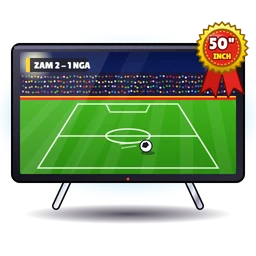
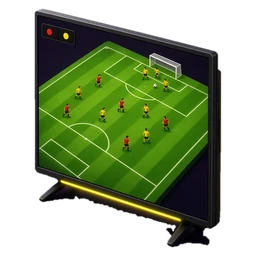
art(store): 55-inch TV prize art; TV rows switched on (all 13 prizes sell)

diff --git a/CLAUDE.md b/CLAUDE.md
@@ -55,7 +55,7 @@
 - Currency system: Coins (state key `kwacha`), prize gems Emeralds / Rubies / Diamonds (2026-10-07; old Gems + Diamonds retired), XP. Kwacha (K) = real money, only via Store redemptions
 - **Coins & Store redesign (2026-10-14, design canvas RRYkJT53TxAN94Hu36b73A)**: art in `public/ui/store/` (pack-k1..k50, BwanaBet-logo banner, chest, quilt/grain textures); texture classes `bb-*` in `components/redesign/storeKit.jsx`; shine sweep + sparkles in `components/redesign/Shine.jsx` + `app/globals.css` (off under reduced motion); `nextPackGoal`/`packArtAmount` in `lib/store/catalog.mjs`. Daily reward frame = BwanaBet yellow #FEF200 bevel with a travelling glint (also day-7 chest + TOP PRIZE frames)
 - **Daily reward POPUP (2026-10-18, `components/redesign/DailyRewardPopup.jsx`)**: opens by itself once per widget open while today's reward is unclaimed (logged in: after hydration; waits for other modals / the open story bubble); holds the same `DailyReward` card (`id="daily-reward-popup"`). CLAIM = `claimDailyReward(el, { popup: true })`: 12 K coins fly from the button into `.currency-coin-target` (which pulses per coin), a small "+N coins" float, XP stars, then the popup fades out (~450ms); no card confetti. X / Escape close it; the card stays on Home. The popup card is `DailyReward todayOnly` (only today's prize, big; no week grid). Mission cards (Home teaser + Missions tab) show the prize as a centred "EARN [coin] 50 COINS" line (`EarnPrize` in EarnView) and `missionTerms` in big display type, its first word (the action: PLAY, PLACE, DEPOSIT, MAKE, LOG IN; loyalty missions read "LOG IN ON N DAYS", any days, from 14 days up; the first two rungs (3 and 7, `IN_A_ROW` in `lib/missions/ladder.mjs`) read "LOG IN N DAYS IN A ROW" and count `loginStreak`: daily-reward days in a row ending today/yesterday, after the Lusaka day of the previous collection (`missionBase.logins.at`), a missed day resets, owner 2026-10-22; the Home mission tile shows the terms ABOVE the prize) in the platform gold via `MissionTerms` (2026-10-20); mission XP unchanged (owner decision 2026-10-18). Coin Shop (Store hero + Home panel) shows NO balance and NO next-pack meter (they confused players), only the "10,000 COINS BUYS K1.00" guide. Story bubble title = "YOUR STORY:" (no League level / Status). Missions tab: the full 17-stage "Stage milestones" list is REMOVED (owner 2026-10-18: the story stays a mystery); phones keep the "how to earn XP" box in its place (`RewardsSection`), desktop road column + World Cup path unchanged. **Level names (2026-10-18)**: each stage has ONE level name `title` (`LEVEL_NAMES` in `lib/vuma/stages.mjs`, replaces league + status), 13 owner names over 19 stages: 1 Village Football, 2 Street Hero, 3 Street Legend, 4 Amateur League, 5–6 Amateur League Hero, 7 Amateur League Legend, 8 Professional League, 9–10 Pro League Hero, 11 Pro League Legend, 12–13 International League, 14–16 International League Hero, 17–19 International League Legend. **Story stays a surprise**: the next PLACE/club is never named ahead — "XP to <next level name>" (`nextStageLabel`, "stage N" when the name repeats), profile "Next: <level name>", desktop road has no next-3 preview, World Cup teaser "Reach level 22 to play for Zambia"; level-up modal adds the level name. Village (mud) pitch has NO markings. **Side quests = 10 levels** (`hustle.levels`): Fried rat selling 0 → Car washing 500 → Chili bite trading 1.5k → Wheelbarrow pushing 3k → Tomato trading 5k → Bus conducting 7.5k → Bus driving 10k → Salaula trading 13k → Mobile money agent 16.5k → Kapenta trading 20k overflow XP, paying 20/40/60/90/120/160/200/260/330/400 coins/day. Art is TEMPORARY (`QUEST_ART` in `lib/season/hustle.mjs` reuses the 5 old hustle pictures); new art prompts in `docs/vuma/side-quest-prompts.md` (save as `public/vuma/quest-NN.jpg`)
-- **Coin Shop opens at LEVEL 10 (owner 2026-10-22, was stage 5 from 2026-10-20; ONLY the kwacha packs can be bought, every other item shows a "Coming soon" lock: `itemBuyable` = `redeem.currency === 'coins'`, `/api/purchase` refuses others with `item_locked`; a "REAL PRIZES" section in the Store tab lists the 13 prizes from `lib/store/prizes.mjs` (PRICED 2026-10-26, owner list: one `store_items` row per price option grouped by `prize_id` (e.g. Power Bank = 1,000,000 coins OR 5 emeralds), bought via the normal `/api/purchase` -> `purchase_item` path, Telegram "🎁 REAL PRIZE … arrange delivery"; LIVE 2026-10-26 (owner approved mockup artifact 98bqRrV2ZmKYsUC64JfBZE): NO "Real prizes" heading or tiers any more, the Store tab is ONE grid: the kwacha packs K1..K50 (no TOP PRIZE badge while prizes follow, no "Kwacha packs" header) then the prizes in the same pack-look card (`StorePrizeCard`: price(s) on top with OR, BUYS, the name, a button per price "Convert" / "Use coins" / "Use emeralds" two-tap, "N more emeralds" when short), cheapest first (`shopPrizes`); 12 prizes sell: football, powerbank, wifi, iphonex ("iPhone X"), scooter, galaxyultra, iphone18, car, plus (2026-10-28) cap, buckethat, tshirt, hoodie (Grok blank clothing + the owner's mascot logo `docs/store/bwanabet-mascot-logo.jpg` composited on by Claude); the TV rows stay `active = false` until its art exists; the normal shop locks still apply (level 10, `store` row); remote-config row `prizes` = `{ open, convert, testers, convertRate }`: `open` (true since 2026-10-26) shows/sells the prizes to everyone, `convert` (false) the gem conversion, testers (53) get each before it opens (and skip the level-10 lock while prizes are closed); `lib/store/prizes.mjs` `cleanPrizesConfig`/`prizesOpenFor`/`prizesTester`/`prizeOptions`; migration `2026-10-26-real-prizes.sql`, APPLIED; tests `tests/store-prizes.test.mjs`). **GEMS -> COINS (owner 2026-10-26, supersedes "gems never convert")**: the wallet sheet's gem rows get a two-tap Convert (1 gem per tap) paying `prizes.convertRate` (0.75) x the gem's coin value (1 emerald -> 150,000 coins, ruby 375,000, diamond 750,000) via `POST /api/gems/convert` -> `convert_gems()` RPC (server-held balance, atomic, logged in `gem_conversions`), gate `prizes.convert` (still OFF for players, `convertOpenFor`); converted coins CAN buy kwacha packs (owner OK, the one-pack-a-week cap still applies) (3 tiers, art `public/ui/prizes/<id>.webp`, canvas U29ENtxP8VnDX8KxBhmv1w), all locked, no prices yet)**: `STORE_UNLOCK_STAGE` / `STORE_UNLOCK_XP` (7,000) / `storeLocked` in `lib/store/catalog.mjs` (test `tests/store-lock.test.mjs`); below it the Home panel + Store tab are greyed and inert (`ShopLockWrap`) with an "OPENS AT STAGE 5 · N XP to go" plate (`ShopLockPlate`, storeKit), the nav tab is greyed with a lock (still opens the locked tab), and `POST /api/purchase` refuses with `store_locked` when `profiles.xp` < 900
+- **Coin Shop opens at LEVEL 10 (owner 2026-10-22, was stage 5 from 2026-10-20; ONLY the kwacha packs can be bought, every other item shows a "Coming soon" lock: `itemBuyable` = `redeem.currency === 'coins'`, `/api/purchase` refuses others with `item_locked`; a "REAL PRIZES" section in the Store tab lists the 13 prizes from `lib/store/prizes.mjs` (PRICED 2026-10-26, owner list: one `store_items` row per price option grouped by `prize_id` (e.g. Power Bank = 1,000,000 coins OR 5 emeralds), bought via the normal `/api/purchase` -> `purchase_item` path, Telegram "🎁 REAL PRIZE … arrange delivery"; LIVE 2026-10-26 (owner approved mockup artifact 98bqRrV2ZmKYsUC64JfBZE): NO "Real prizes" heading or tiers any more, the Store tab is ONE grid: the kwacha packs K1..K50 (no TOP PRIZE badge while prizes follow, no "Kwacha packs" header) then the prizes in the same pack-look card (`StorePrizeCard`: price(s) on top with OR, BUYS, the name, a button per price "Convert" / "Use coins" / "Use emeralds" two-tap, "N more emeralds" when short), cheapest first (`shopPrizes`); all 13 prizes sell: football, powerbank, wifi, iphonex ("iPhone X"), scooter, galaxyultra, iphone18, car, plus (2026-10-28) cap, buckethat, tshirt, hoodie (Grok blank clothing + the owner's mascot logo `docs/store/bwanabet-mascot-logo.jpg` composited on by Claude) and tv (rows active since 2026-10-28); the normal shop locks still apply (level 10, `store` row); remote-config row `prizes` = `{ open, convert, testers, convertRate }`: `open` (true since 2026-10-26) shows/sells the prizes to everyone, `convert` (false) the gem conversion, testers (53) get each before it opens (and skip the level-10 lock while prizes are closed); `lib/store/prizes.mjs` `cleanPrizesConfig`/`prizesOpenFor`/`prizesTester`/`prizeOptions`; migration `2026-10-26-real-prizes.sql`, APPLIED; tests `tests/store-prizes.test.mjs`). **GEMS -> COINS (owner 2026-10-26, supersedes "gems never convert")**: the wallet sheet's gem rows get a two-tap Convert (1 gem per tap) paying `prizes.convertRate` (0.75) x the gem's coin value (1 emerald -> 150,000 coins, ruby 375,000, diamond 750,000) via `POST /api/gems/convert` -> `convert_gems()` RPC (server-held balance, atomic, logged in `gem_conversions`), gate `prizes.convert` (still OFF for players, `convertOpenFor`); converted coins CAN buy kwacha packs (owner OK, the one-pack-a-week cap still applies) (3 tiers, art `public/ui/prizes/<id>.webp`, canvas U29ENtxP8VnDX8KxBhmv1w), all locked, no prices yet)**: `STORE_UNLOCK_STAGE` / `STORE_UNLOCK_XP` (7,000) / `storeLocked` in `lib/store/catalog.mjs` (test `tests/store-lock.test.mjs`); below it the Home panel + Store tab are greyed and inert (`ShopLockWrap`) with an "OPENS AT STAGE 5 · N XP to go" plate (`ShopLockPlate`, storeKit), the nav tab is greyed with a lock (still opens the locked tab), and `POST /api/purchase` refuses with `store_locked` when `profiles.xp` < 900
 - **Home top row (2026-10-14; since 2026-10-18 MISSIONS take the top-left slot; 2026-10-20 the DAILY REWARD and the Coin Shop swapped)**: missions LEFT + daily reward RIGHT (full column width, its right edge lines up with the games, 2026-10-20) on desktop (≥861px), then `HomeStore` under the missions beside the games (phones, 2026-10-20: missions → daily → games → weekly predictions → store → football): kwacha packs then items, same purchase handler as the Store tab (lifted into `GamificationPlatform`), "See all" → Store; the old Featured block is gone. Home "This week" compact MatchCard sits on a CSS football pitch, rewards in the centre circle, XP bar at the bottom (Missions tab card unchanged)
 - Nav = **Home / Missions / Store** (2026-10; the Play and Me tabs are gone): **Home** (daily reward, then all games via `GamesGrid`, missions teaser, featured item), **Missions** (`missions`; `EarnView` = today's casino-rounds counter + the 4 daily missions + level milestones), **Store**. Nav icons are inline SVG in `components/redesign/NavIcons.jsx`. `LEGACY_TAB_MAP` maps old ids: `minigames`/`play.*`/`predict*` -> Home scrolled to the games, `daily` -> Home, `earn`/`earn.*`/`quests` -> Missions, `me.*`/profile ids -> Home (profile = header avatar modal)
 
